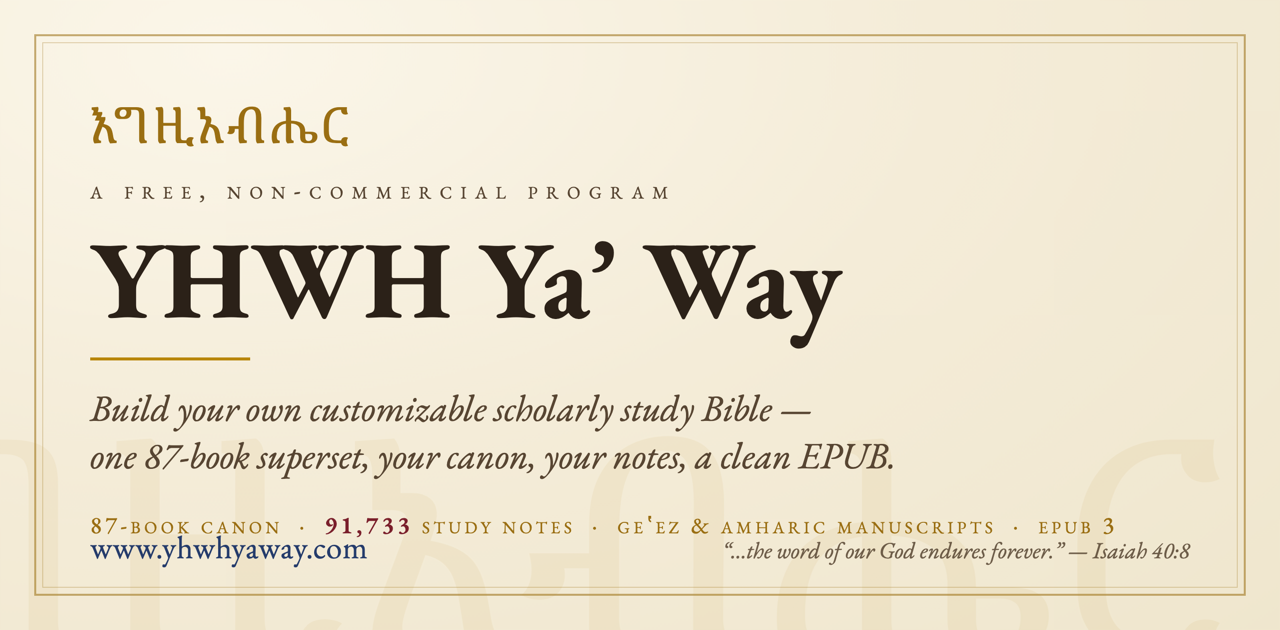
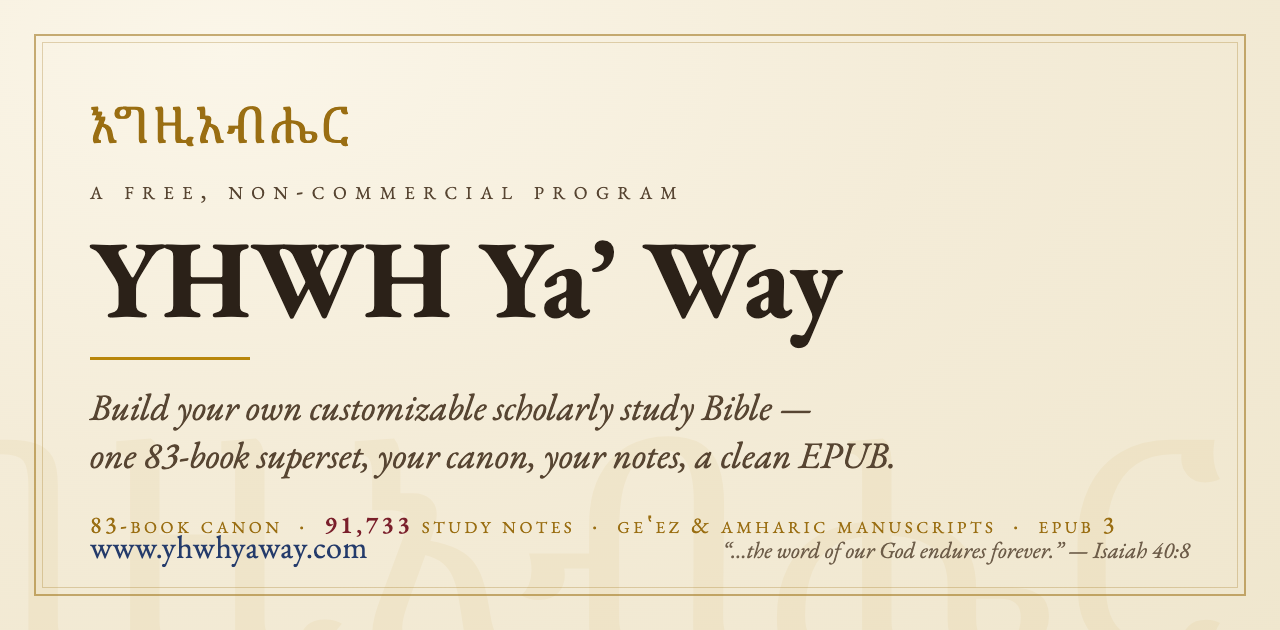
brand: social card says 83-book superset (was 87) + rules: claims live beyond page HTML
The link-preview card (og:image) had "one 87-book superset" / "87-book canon"
baked into the image, so X/iMessage previews still showed 87 after the HTML was
fixed. Re-rendered brand/sources/card.html (now 83) → website/ + brand/ +
dist/social-card.png. Added a RULES corollary: a user-facing count lives in the
page body, the meta/og/twitter descriptions, the baked social-card image, the
repo descriptions, AND the tracker generator — and link previews cache hard
(re-scrape after fixing).

diff --git a/brand/sources/card.html b/brand/sources/card.html
@@ -34,8 +34,8 @@ body{
     <div class="kicker">a free, non-commercial program</div>
     <div class="title">YHWH Ya’ Way</div>
     <div class="rule"></div>
-    <div class="tag">Build your own customizable scholarly study Bible —<br>one 87-book superset, your canon, your notes, a clean EPUB.</div>
-    <div class="facts">87-book canon &nbsp;·&nbsp; <b>91,733</b> study notes &nbsp;·&nbsp; geʽez &amp; amharic manuscripts &nbsp;·&nbsp; epub&nbsp;3</div>
+    <div class="tag">Build your own customizable scholarly study Bible —<br>one 83-book superset, your canon, your notes, a clean EPUB.</div>
+    <div class="facts">83-book canon &nbsp;·&nbsp; <b>91,733</b> study notes &nbsp;·&nbsp; geʽez &amp; amharic manuscripts &nbsp;·&nbsp; epub&nbsp;3</div>
   </div>
   <div class="foot">
     <div class="url">www.yhwhyaway.com</div>

diff --git a/dev/CLAUDE_PROJECT_RULES.md b/dev/CLAUDE_PROJECT_RULES.md
@@ -75,6 +75,20 @@ A stale on-disk artifact is NOT a deploy — rebuild it first so what ships refl
 the latest source. "Deploy v0.0.x" = produce that version's binaries fresh, attach
 them, AND flip the live site to them. (Both lanes; memory: `feedback_deploy_means_build_and_deploy`.)
 
+**Corollary — a user-facing CLAIM/COUNT lives in MORE than the page HTML.** When you
+change a headline number or claim (e.g. the book count: it is **83** — the shipped
+superset; the raw registry is 87 but four additions fold into Daniel/Esther — NEVER
+say 87), you must update ALL of: (a) the page body; (b) the `<meta name="description">`
+/ `og:description` / `twitter:description` tags; (c) **the social-card image itself**
+— `brand/sources/card.html` has the text baked in and is rendered to
+`website/social-card.png` + `brand/social-card.png` (re-render at 1280×630 via a local
+`python3 -m http.server` + Playwright screenshot, then rebuild so `dist/` picks it up);
+(d) the GitHub + GitLab repo descriptions; (e) the in-app/tracker generators
+(`scripts/gen_website_progress.py` excludes the folded books via `_SUPERSET_EXCLUDE`).
+Link previews on X/iMessage/Slack use `og:image` (the baked card) and are **cached
+hard** — after fixing it, re-scrape via the platform's card validator or the old card
+persists for days. (Why the user re-flagged "still says 87 books" 2026-06-07.)
+
 ## Rules map — which § governs what (jump here first)
 
 | § | Governs |
